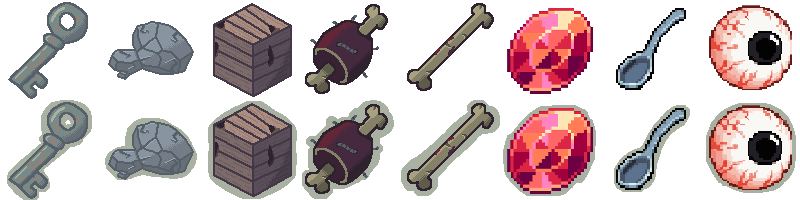
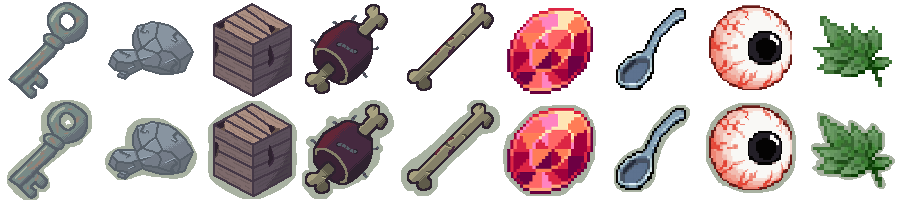
added new sounds, 1 new item, changed level 2, done layout for level 1

diff --git a/game/js/dataLibraries/maps.js b/game/js/dataLibraries/maps.js
@@ -1,76 +1,76 @@
 const maps = 
 {
     map1:
-    [
-        [1,1,1,1,1,1,1,1,1,0,1,1,1,1,1,1,1,1,1],
-        [1,0,0,0,1,0,0,0,0,0,0,0,0,0,1,0,0,0,1],
-        [1,0,1,1,1,0,1,0,1,1,1,1,1,1,1,0,1,0,1],
-        [1,0,0,0,1,0,1,0,1,0,0,0,0,0,1,0,1,0,1],
-        [1,1,1,0,1,0,1,1,1,0,1,1,1,0,1,0,1,0,1],
-        [1,0,0,0,1,0,0,0,0,0,0,0,1,0,0,0,1,0,1],
-        [1,0,1,0,1,0,1,1,1,1,1,1,1,0,1,1,1,1,1],
-        [1,0,1,0,0,0,1,0,1,0,0,0,1,0,0,0,0,0,1],
-        [1,0,1,1,1,1,1,0,1,0,1,0,1,1,1,1,1,0,1],
-        [1,0,0,0,0,0,0,0,1,0,1,0,0,0,0,0,0,0,11],
-        [1,1,1,1,1,1,1,1,1,0,1,12,1,1,1,1,1,1,1]
+    [  //0,1,2,3,4,5,6,7,8,9,0,1,2,3,4,5,6,7,8
+        [1,1,1,1,1,1,1,1,1,0,1,1,1,1,1,1,1,1,1],//0
+        [1,0,0,0,1,0,0,0,0,0,0,0,0,0,1,0,0,0,1],//1
+        [1,0,1,1,1,0,1,0,1,1,1,1,1,1,1,0,1,0,1],//2
+        [1,0,0,0,1,0,1,0,1,0,0,0,0,0,1,0,1,0,1],//3
+        [1,1,1,0,1,0,1,1,1,0,1,1,1,0,1,0,1,0,1],//4
+        [1,0,0,0,1,0,0,0,0,0,0,0,1,0,0,0,1,0,1],//5
+        [1,0,1,0,1,0,1,1,1,1,1,1,1,0,1,1,1,0,1],//6
+        [1,0,1,0,0,0,0,0,1,0,0,0,0,0,0,0,0,0,12],//7
+        [1,0,1,1,1,1,1,0,1,0,1,0,1,1,1,1,1,0,1],//8
+        [11,0,0,0,0,0,0,0,1,0,1,0,0,0,0,0,0,0,1],//9
+        [1,1,1,1,1,1,1,1,1,0,1,1,1,1,1,1,1,1,1]//10
     ],
 map2:
-    [
-        [1,1,1,1,1,1,1,1,1,1,1,0,1,1,1,1,1,1,1,1,1,1,1,1,1],
-        [1,0,0,0,0,0,0,0,1,0,0,0,0,0,1,0,0,0,1,0,0,0,1,0,1],
-        [1,0,1,1,1,1,1,0,1,0,1,1,1,0,1,0,1,0,1,0,1,0,1,0,1],
-        [1,0,1,0,0,0,1,0,0,0,0,0,1,0,0,0,1,0,0,0,1,0,0,0,1],
-        [1,0,1,0,1,0,1,1,1,0,1,0,1,0,1,1,1,1,1,1,1,1,1,0,1],
-        [1,0,1,0,1,0,1,0,0,0,1,0,1,0,1,0,0,0,1,0,0,0,1,0,1],
-        [1,0,1,0,1,0,1,1,1,1,1,0,1,0,1,1,1,0,1,0,1,1,1,0,1],
-        [1,0,0,0,1,0,0,0,1,0,1,0,1,0,0,0,0,0,1,0,0,0,0,0,1],
-        [1,0,1,1,1,1,1,0,1,0,1,0,1,1,1,1,1,1,1,0,1,1,1,1,1],
-        [23,0,0,0,0,0,1,0,1,0,0,0,1,0,0,0,0,0,1,0,0,0,0,0,1],
-        [1,1,1,0,1,1,1,0,1,0,1,1,1,1,1,1,1,0,1,1,1,1,1,1,1],
-        [22,0,0,0,1,0,0,0,1,0,0,0,0,0,0,0,0,0,1,0,0,0,0,0,1],
-        [1,0,1,1,1,0,1,1,1,1,1,1,1,1,1,0,1,0,1,0,1,1,1,0,1],
-        [21,0,0,0,0,0,0,0,0,0,0,0,0,0,1,0,1,0,0,0,1,0,0,0,1],
-        [1,1,1,1,1,1,1,1,1,1,1,1,1,0,1,1,1,1,1,1,1,1,1,1,1]
+    [  //0,1,2,3,4,5,6,7,8,9,0,1,2,3,4,5,6,7,8,9,0,1,2,3,4           
+        [1,1,1,1,1,1,1,1,1,1,1,0,1,1,1,1,1,1,1,1,1,1,1,1,1],//0
+        [1,0,0,0,0,0,1,0,0,0,0,0,1,0,0,0,0,0,0,0,1,0,0,0,1],//1
+        [1,1,1,1,1,0,1,0,1,0,1,1,1,0,1,1,1,0,1,0,1,1,1,0,1],//2
+        [1,0,0,0,0,0,1,0,1,0,0,0,0,0,1,0,0,0,1,0,0,0,0,0,1],//3
+        [1,0,1,1,1,1,1,0,1,1,1,1,1,1,1,1,1,1,1,0,1,1,1,1,1],//4
+        [1,0,0,0,1,0,0,0,0,0,0,0,1,0,0,0,0,0,1,0,1,0,0,0,1],//5
+        [1,1,1,0,1,0,1,1,1,1,1,0,1,0,1,0,1,1,1,0,1,0,1,1,1],//6
+        [1,0,0,0,0,0,1,0,0,0,1,0,0,0,1,0,1,0,0,0,1,0,0,0,1],//7
+        [1,1,1,1,1,1,1,0,1,0,1,1,1,1,1,0,1,0,1,1,1,1,1,0,1],//8
+        [1,0,0,0,0,0,1,0,1,0,0,0,0,0,0,0,1,0,1,0,0,0,0,0,1],//9
+        [1,0,1,1,1,0,1,0,1,1,1,1,1,1,1,1,1,0,1,0,1,1,1,1,1],//10
+        [1,0,0,0,1,0,0,0,1,0,0,0,0,0,0,0,1,0,1,0,0,0,0,0,1],//11
+        [1,0,1,0,1,1,1,1,1,1,1,1,1,1,1,0,1,0,1,0,1,1,1,0,1],//12
+        [1,0,1,0,0,0,0,0,0,0,0,0,0,0,1,0,0,0,0,0,1,0,0,0,1],//13
+        [1,1,1,1,1,1,1,1,1,1,1,1,1,0,1,1,1,1,1,1,1,1,1,1,1]//14
     ],
 map3:
-    [
-        [1,1,1,1,1,1,1,1,1,1,1,1,1,0,1,1,1,1,1,1,1,1,1,1,1,1,1,1,1],
-        [1,0,0,0,0,0,0,0,0,0,0,0,0,0,0,0,0,0,1,0,0,0,0,0,0,0,1,0,1],
-        [1,0,1,1,1,1,1,1,1,1,1,1,1,1,1,1,1,1,1,0,1,1,1,0,1,0,1,0,1],
-        [1,0,0,0,0,0,0,0,0,0,1,0,0,0,1,0,0,0,0,0,0,0,1,0,1,0,1,0,1],
-        [1,1,1,1,1,1,1,0,1,0,1,0,1,0,1,0,1,1,1,1,1,0,1,0,1,0,1,0,1],
-        [1,0,0,0,1,0,0,0,1,0,0,0,1,0,1,0,1,0,1,0,0,0,1,0,1,0,1,0,1],
-        [1,0,1,0,1,1,1,0,1,1,1,1,1,0,1,0,1,0,1,0,1,0,1,0,1,0,1,0,1],
-        [1,0,1,0,0,0,1,0,0,0,0,0,1,0,0,0,0,0,1,0,1,0,1,0,1,0,1,0,1],
-        [1,0,1,1,1,0,1,1,1,1,1,1,1,1,1,1,1,1,1,0,1,1,1,0,1,0,1,0,1],
-        [1,0,0,0,1,0,0,0,0,0,0,0,0,0,0,0,0,0,0,0,0,0,1,0,1,0,0,0,1],
-        [1,0,1,0,1,1,1,1,1,1,1,1,1,1,1,1,1,1,1,1,1,0,1,1,1,1,1,1,1],
-        [1,0,1,0,0,0,0,0,0,0,0,0,1,0,0,0,0,0,0,0,1,0,0,0,1,0,0,0,1],
-        [1,0,1,1,1,1,1,1,1,1,1,0,1,1,1,1,1,0,1,0,1,0,1,0,1,0,1,0,1],
-        [1,0,0,0,0,0,0,0,0,0,1,0,0,0,1,0,0,0,1,0,1,0,1,0,0,0,1,0,1],
-        [1,1,1,1,1,1,1,1,1,0,1,1,1,0,1,0,1,1,1,0,1,1,1,1,1,0,1,0,1],
-        [1,0,0,0,0,0,1,0,0,0,1,0,0,0,1,0,0,0,1,0,0,0,0,0,1,0,1,0,1],
-        [1,0,1,1,1,1,1,0,1,1,1,0,1,1,1,1,1,0,1,1,1,1,1,0,1,0,1,0,1],
-        [1,0,1,0,0,0,1,0,0,0,1,0,0,0,0,0,1,0,0,0,1,0,0,0,1,0,1,0,1],
-        [1,0,1,0,1,0,1,1,1,0,1,1,1,1,1,0,1,1,1,0,1,1,1,1,1,0,1,0,1],
-        [1,0,0,0,1,0,0,0,0,0,0,0,0,0,1,0,0,0,0,0,0,0,0,0,0,0,1,0,1],
-        [1,1,1,1,1,1,1,1,1,1,1,1,1,1,1,0,1,31,32,33,1,1,1,1,1,1,1,1,1],
+    [  //0,1,2,3,4,5,6,7,8,9,0,1,2,3,4,5,6,7,8,9,0,1,2,3,4,5,6,7,8
+        [1,1,1,1,1,1,1,1,1,1,1,1,1,0,1,1,1,1,1,1,1,1,1,1,1,1,1,1,1],//0
+        [1,0,0,0,0,0,0,0,0,0,0,0,0,0,0,0,0,0,1,0,0,0,0,0,0,0,1,0,1],//1
+        [1,0,1,1,1,1,1,1,1,1,1,1,1,1,1,1,1,1,1,0,1,1,1,0,1,0,1,0,1],//2
+        [1,0,0,0,0,0,0,0,0,0,1,0,0,0,1,0,0,0,0,0,0,0,1,0,1,0,1,0,1],//3
+        [1,1,1,1,1,1,1,0,1,0,1,0,1,0,1,0,1,1,1,1,1,0,1,0,1,0,1,0,1],//4
+        [1,0,0,0,1,0,0,0,1,0,0,0,1,0,1,0,1,0,1,0,0,0,1,0,1,0,1,0,1],//5
+        [1,0,1,0,1,1,1,0,1,1,1,1,1,0,1,0,1,0,1,0,1,0,1,0,1,0,1,0,1],//6
+        [1,0,1,0,0,0,1,0,0,0,0,0,1,0,0,0,0,0,1,0,1,0,1,0,1,0,1,0,1],//7
+        [1,0,1,1,1,0,1,1,1,1,1,1,1,1,1,1,1,1,1,0,1,1,1,0,1,0,1,0,1],//8
+        [1,0,0,0,1,0,0,0,0,0,0,0,0,0,0,0,0,0,0,0,0,0,1,0,1,0,0,0,1],//9
+        [1,0,1,0,1,1,1,1,1,1,1,1,1,1,1,1,1,1,1,1,1,0,1,1,1,1,1,1,1],//10
+        [1,0,1,0,0,0,0,0,0,0,0,0,1,0,0,0,0,0,0,0,1,0,0,0,1,0,0,0,1],//11
+        [1,0,1,1,1,1,1,1,1,1,1,0,1,1,1,1,1,0,1,0,1,0,1,0,1,0,1,0,1],//12
+        [1,0,0,0,0,0,0,0,0,0,1,0,0,0,1,0,0,0,1,0,1,0,1,0,0,0,1,0,1],//13
+        [1,1,1,1,1,1,1,1,1,0,1,1,1,0,1,0,1,1,1,0,1,1,1,1,1,0,1,0,1],//14
+        [1,0,0,0,0,0,1,0,0,0,1,0,0,0,1,0,0,0,1,0,0,0,0,0,1,0,1,0,1],//15
+        [1,0,1,1,1,1,1,0,1,1,1,0,1,1,1,1,1,0,1,1,1,1,1,0,1,0,1,0,1],//16
+        [1,0,1,0,0,0,1,0,0,0,1,0,0,0,0,0,1,0,0,0,1,0,0,0,1,0,1,0,1],//17
+        [1,0,1,0,1,0,1,1,1,0,1,1,1,1,1,0,1,1,1,0,1,1,1,1,1,0,1,0,1],//18
+        [1,0,0,0,1,0,0,0,0,0,0,0,0,0,1,0,0,0,0,0,0,0,0,0,0,0,1,0,1],//19
+        [1,1,1,1,1,1,1,1,1,1,1,1,1,1,1,0,1,31,32,33,1,1,1,1,1,1,1,1,1],//20
     ],
 map4: 
-    [
-        [1,1,1,1,1,1,1],
-        [1,1,1,0,1,1,1],
-        [1,1,0,0,0,1,1],
-        [1,1,0,0,0,1,1],
-        [1,1,0,0,0,1,1],
-        [1,1,0,0,0,1,1],
-        [1,1,0,0,0,1,1],
-        [1,1,0,0,0,1,1],
-        [1,1,0,0,0,1,1],
-        [1,1,0,0,0,1,1],
-        [1,1,0,0,0,1,1],
-        [1,1,0,0,0,1,1],
-        [1,1,0,0,0,1,1],
-        [1,1,1,1,1,1,1]
+    [  //0,1,2,3,4,5,6
+        [1,1,1,1,1,1,1],//1
+        [1,1,1,0,1,1,1],//2
+        [1,1,0,0,0,1,1],//3
+        [1,1,0,0,0,1,1],//4
+        [1,1,0,0,0,1,1],//5
+        [1,1,0,0,0,1,1],//6
+        [1,1,0,0,0,1,1],//7
+        [1,1,0,0,0,1,1],//8
+        [1,1,0,0,0,1,1],//9
+        [1,1,0,0,0,1,1],//10
+        [1,1,0,0,0,1,1],//11
+        [1,1,0,0,0,1,1],//12
+        [1,1,0,0,0,1,1],//13
+        [1,1,1,1,1,1,1]//14
     ]
 };

diff --git a/game/js/dataLibraries/objectLibrary.js b/game/js/dataLibraries/objectLibrary.js
@@ -9,6 +9,23 @@ const ObjectsLibrary = {
             
             UI.updateHealth(player.hp);
             Inventory.addItem({ ...ObjectsLibrary['bone'] });
+            SoundManager.play('meat');
+            
+            return {
+                message: t.ui.hp_up,
+                deleteItem: true
+            };
+        }
+    },
+    herb: {
+        id: "herb",
+        spriteIndex: 8, 
+        isConsumable: true,
+        logicType: "pickup",
+        action: () => {
+            player.hp = Math.min(player.hp + 1, PLAYER_CONFIG.MAX_HP);
+            
+            UI.updateHealth(player.hp);
             
             return {
                 message: t.ui.hp_up,
@@ -21,22 +38,22 @@ const ObjectsLibrary = {
         spriteIndex: 4,
         logicType: 'pickup',
         action: (obj) => {
-        if (obj.id === "gears" && obj.state === "spinning") {
-            obj.state = 'jammed_bone';
-            roomsData["22"].isLocked = false;
-            return {
-                message: t.interactions.gears_jammed,
-                deleteItem: true
-            };
+            if (obj.id === "gears" && obj.state === "spinning") {
+                obj.state = 'jammed_bone';
+                roomsData["22"].isLocked = false;
+                return {
+                    message: t.interactions.gears_jammed,
+                    deleteItem: true
+                };
+            }
+            if (obj.id === "broken_lever" && obj.state === "broken") {
+                obj.state = 'fixed_off';
+                return {
+                    message: t.interactions.lever_fixed,
+                    deleteItem: true
+                };
+            }
         }
-        if (obj.id === "broken_lever" && obj.state === "broken") {
-            obj.state = 'fixed_off';
-            return {
-                message: t.interactions.lever_fixed,
-                deleteItem: true
-            };
-        }
-    }
     },
     crate: {
         id: 'crate',

diff --git a/game/js/languages/ru.js b/game/js/languages/ru.js
@@ -149,6 +149,7 @@ const langRU = {
         ruby: "Кроваво-красный рубин небольших размеров, продать бы.",
         spoon: "Обычная металлическая ложка.",
         player_eye: "Мой собственный глаз. Всё ещё склизкий.",
+        herb: "Ведь эту траву использует наш знахарь. Не ожидал, что тут вообще что-то растёт.",
     },
     itemName: {
         stone: "камень",
@@ -159,6 +160,7 @@ const langRU = {
     },
     itemPickUp: {
         crate: "Ящик подобран",
-        meat: "Сегодня не умру",
+        meat: "Ну и мерзость! Но это всё ещё еда...",
+        herb: "Какая находка!",
     }
 }

diff --git a/game/js/soundManager.js b/game/js/soundManager.js
@@ -20,7 +20,9 @@ const SoundManager = {
             enemyStep: 'enemy-step.ogg',
             eye: 'eye.ogg',
             statue: 'statue.ogg',
-            step: 'step.ogg'
+            step: 'step.ogg',
+            hit: 'hit.ogg', 
+            meat: 'meat.ogg',
         };
         for (let key in soundFiles) {
             this.sounds[key] = new Audio(path + soundFiles[key]);

diff --git a/game/js/dataLibraries/enemies.js b/game/js/dataLibraries/enemies.js
@@ -1,6 +1,7 @@
 const enemiesData = {
     map1: [
-        { x: 3, y: 1, tileSize: tileSize, path: [{x: 3, y: 1}, {x: 17, y: 5}] },
+        { x: 3, y: 1, tileSize: tileSize, path: [{x: 3, y: 1}, {x: 4, y: 9}] },
+        { x: 8, y: 5, tileSize: tileSize, path: [{x:8, y: 5}, {x: 17, y: 3}] },
     ],
     map2: [
         { x: 10, y: 5, tileSize: tileSize, path: [{x: 10, y: 5}, {x: 15, y: 5}] }

diff --git a/game/js/languages/pl.js b/game/js/languages/pl.js
@@ -146,6 +146,7 @@ const langPL = {
         ruby: "Krwistoczerwony rubin niewielkich rozmiarów, dobrze byłoby go sprzedać.",
         spoon: "Zwykła metalowa łyżka.",
         player_eye: "Moje własne oko. Wciąż oślizgłe.",
+        herb: "Przecież tego zioła używa nasz znachor. Nie spodziewałem się, że w ogóle cokolwiek tu rośnie.",
     },
     itemName: {
         stone: "kamień",
@@ -157,5 +158,6 @@ const langPL = {
     itemPickUp: {
         crate: "Podniesiono skrzynię",
         meat: "Dzisiaj nie umrę",
+        herb: "Podniesiono lecznicze ziele"
     }
 }

diff --git a/game/js/main.js b/game/js/main.js
@@ -521,7 +521,7 @@ function drawAll() {
         player.draw(ctx);                          
 
         ctx.restore();
-        drawFogOfWar(ctx, player, camera);
+        // drawFogOfWar(ctx, player, camera);
     }
     
     // Отрисовка внутренностей комнаты поверх | rysowanie wnętrza pokoju na wierzchu

diff --git a/game/js/objects/object.js b/game/js/objects/object.js
@@ -64,10 +64,12 @@ const ObjectLogic = {
             UI.showMessage(t.interactions.lever_broken);
         } else if (target.state === 'fixed_off') {
             target.state = 'fixed_on';
+            SoundManager.play('buttton');
             roomsData["23"].isLocked = false;
             UI.showMessage(t.interactions.lever_pulled_on);
         } else if (target.state === 'fixed_on') {
             target.state = 'fixed_off';
+            SoundManager.play('buttton');
             roomsData["23"].isLocked = true;
             UI.showMessage(t.interactions.lever_pulled_off);
         }

diff --git a/game/js/dataLibraries/mazeObjects.js b/game/js/dataLibraries/mazeObjects.js
@@ -2,5 +2,6 @@ const mazeItemsData = {
     "map1": [
         { id: "meat", x: 17, y: 7 },
         { id: "crate", x: 17, y: 9 },
+        { id: "herb", x: 16, y: 9 },
     ],
 };

diff --git a/game/js/entities/enemy.js b/game/js/entities/enemy.js
@@ -342,6 +342,7 @@ class Enemy {
             triggerSlashEffect(player.x, player.y);
 
             SoundManager.play('attack');
+            SoundManager.play('hit');
             
             this.attackCooldown = ENEMY_CONFIG.ATTACK_COOLDOWN;
             this.knockbackTimer = ENEMY_CONFIG.KNOCKBACK_TIME;